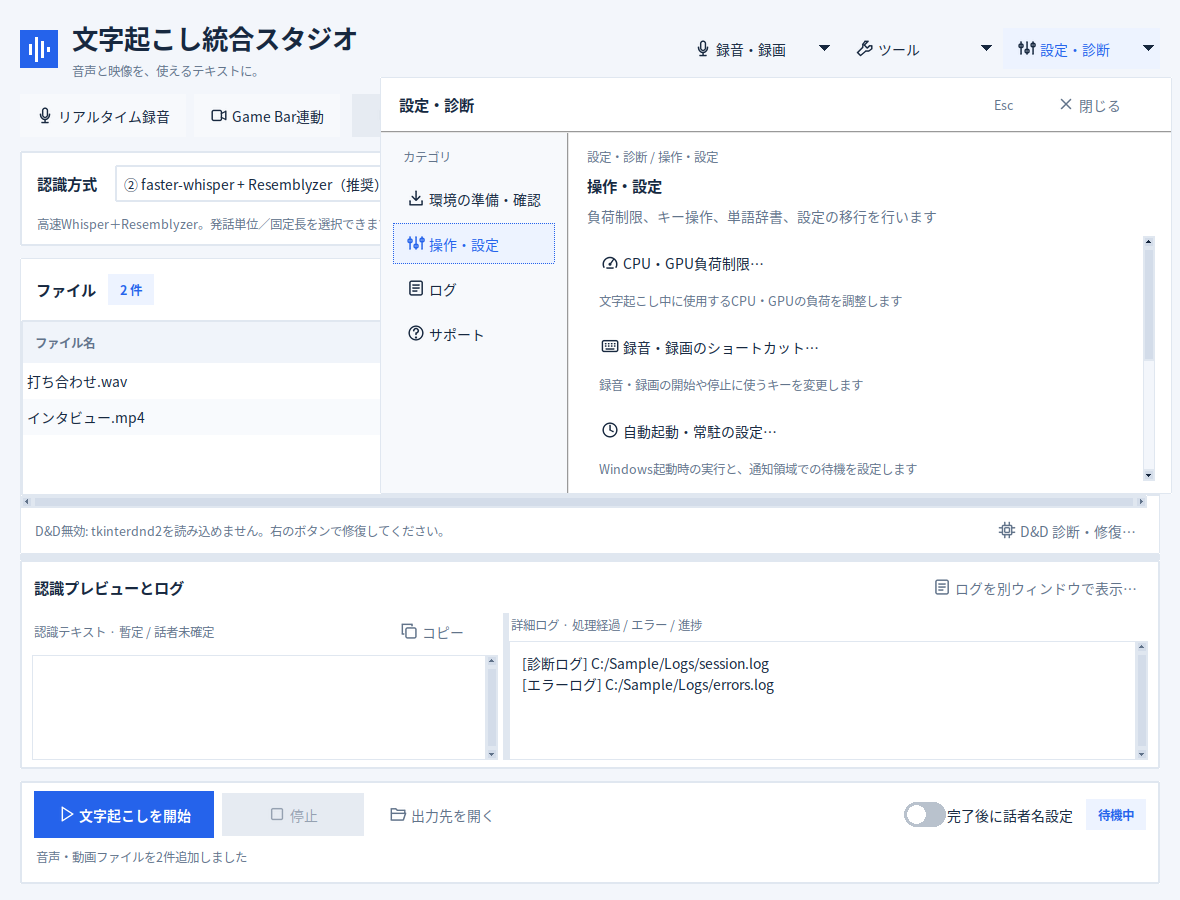
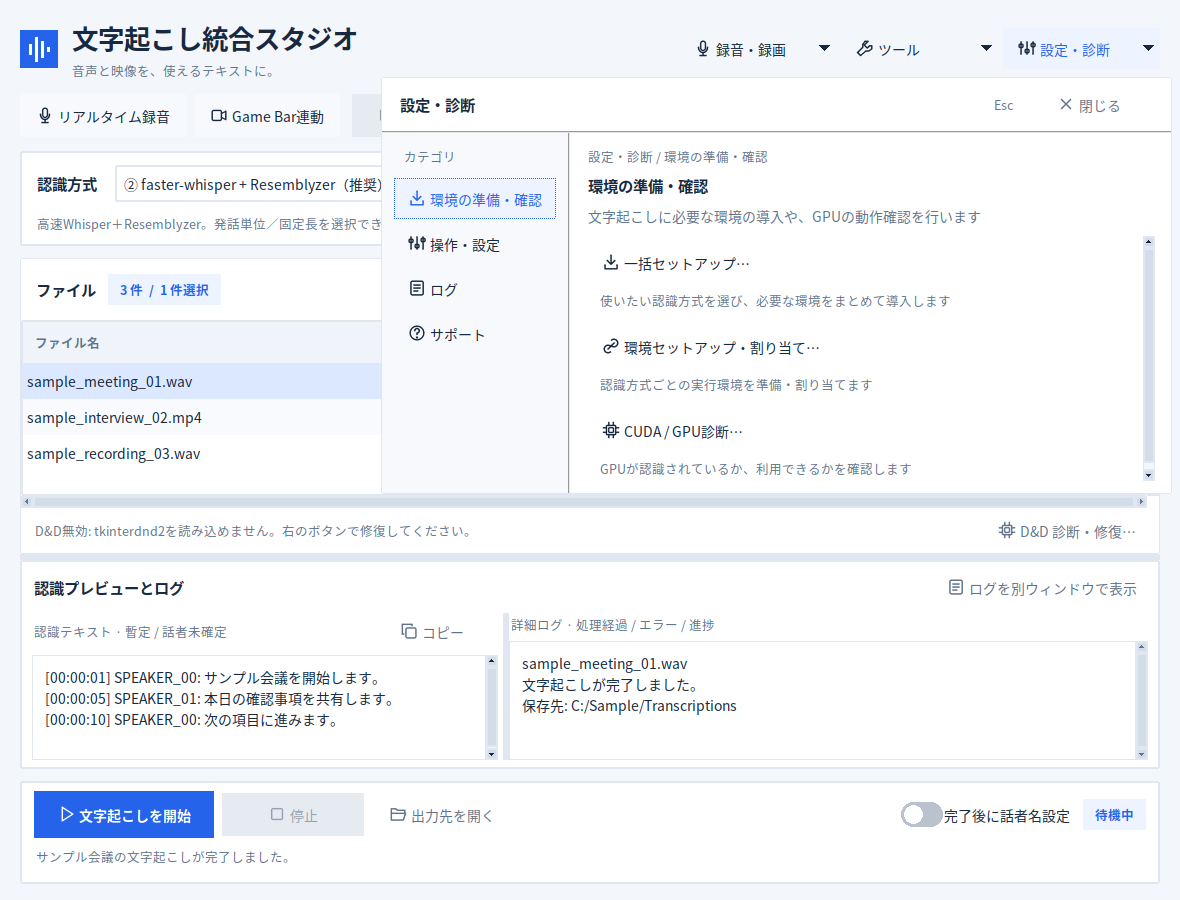
Refresh v1.0.3 README and current UI screenshots
Re-render real Tk documentation screenshots with synthetic data, update the landing-page gallery, correct speaker output and blank-line examples, and refresh linked guides. No application binaries changed.

diff --git a/_internal/docs/GUIDE.html b/_internal/docs/GUIDE.html
@@ -61,7 +61,7 @@ figure{margin:24px 0 30px}.shot{position:relative;border:1px solid var(--line);b
 
   <section class="section" id="main">
     <div class="section-title"><span class="step-no">02</span><h2>メイン画面の見方</h2></div>
-    <p>上から「準備する」「ファイルを選ぶ」「結果を見る」「開始する」の順に並んでいます。アプリ TOP の「画面付き操作ガイド」から、このガイドを直接開けます（下の画面例は追加前のものです）。画像上の番号を押すと、対応する説明へ移動できます。</p>
+    <p>上から「準備する」「ファイルを選ぶ」「結果を見る」「開始する」の順に並んでいます。アプリ TOP の「画面付き操作ガイド」から、このガイドを直接開けます（下の画面例はv1.0.3の実画面を使い、架空のデータで再撮影しました）。画像上の番号を押すと、対応する説明へ移動できます。</p>
     <figure><div class="shot"><img src="images/main-light.png" width="1180" height="900" alt="メイン画面。上部に録音と設定、中央にファイル一覧、左下に認識文、右下に詳細ログ、最下部に開始と停止がある。">
       <a class="pin" href="#record" style="left:28%;top:10.5%" aria-label="1 録音とGame Bar">1</a><a class="pin" href="#settings" style="left:95%;top:17%" aria-label="2 認識方式と詳細設定">2</a><a class="pin" href="#files" style="left:83%;top:32%" aria-label="3 ファイル一覧">3</a><a class="pin" href="#preview" style="left:41%;top:68.5%" aria-label="4 認識プレビューとコピー">4</a><a class="pin" href="#help" style="left:92%;top:68.5%" aria-label="5 詳細ログ">5</a><a class="pin" href="#stop" style="left:34%;top:91.5%" aria-label="6 開始と停止">6</a>
     </div><figcaption class="caption">架空のファイル名・本文を使った画面例。<a href="images/main-light.png">画像を大きく開く</a></figcaption></figure>
@@ -121,7 +121,7 @@ figure{margin:24px 0 30px}.shot{position:relative;border:1px solid var(--line);b
   <section class="section" id="settings">
     <div class="section-title"><span class="step-no">08</span><h2>保存先・設定・見た目を変える</h2></div>
     <h3>固有名詞を認識時のヒントにする</h3>
-    <p>メイン画面の「単語辞書…」または「設定・診断 → 操作・設定 → 認識用の単語辞書…」から設定します。写真の画面例にはこのボタンはまだ表示されていません。</p>
+    <p>メイン画面の「単語辞書…」または「設定・診断 → 操作・設定 → 認識用の単語辞書…」から設定します。</p>
     <ol class="steps"><li><strong>「単語辞書を使用する」をオン</strong><p>初期状態ではオフです。</p></li><li><strong>共通・用途別の単語を登録</strong><p>「表記」に例として「青空株式会社」を入力し、「単語を追加」を押します。読み方は辞書管理用で、認識エンジンには送られません。共通グループは常に使用され、用途別グループは使うものを選びます。</p></li><li><strong>「辞書を保存」してから認識を開始</strong><p>通常のファイルとライブ認識でヒントとして使います。結果の文章の自動置換はしません。</p></li></ol>
     <p class="note">ヒントは正しい認識を保証しません。登録上限は1,000語・50グループ、単語・読み方は各120文字です。実際に使うヒントの長さにも上限があるため、一部が省略される場合は辞書画面またはログで確認します。「、」は単語の区切りとして使うため登録できません。辞書はローカルに保存され、辞書画面から単体で読み込み・書き出しでき、設定全体の移行にも含まれます。</p>
     <h3>保存先を選ぶ</h3>
@@ -174,7 +174,7 @@ figure{margin:24px 0 30px}.shot{position:relative;border:1px solid var(--line);b
     <p class="note warning">ログにはファイルパス、デバイス名、認識結果が含まれる場合があります。誰かへ共有する前に内容を確認してください。</p>
     <div class="inline-links"><a href="USAGE.md">テキスト版の操作ガイド</a><a href="PRIVACY.md">設定・データの取り扱い</a><a href="VALIDATION.md">検証範囲</a><a href="PACKAGING.md">配布形式と警告</a><a href="CHANGELOG.md">リリース情報</a><a href="#">先頭へ戻る</a></div>
   </section>
-  <footer class="footer">文字起こし統合スタジオ v1.0.3 · 画面例は開発中の表示を含みます。追加項目は本文を参照してください。実際のアプリに架空のサンプルを表示しています。画面サイズや表示モードにより、配置や見える範囲が変わります。AIによる認識・話者分離は推定のため、必要に応じて原音と照合してください。</footer>
+  <footer class="footer">文字起こし統合スタジオ v1.0.3 · 画面例はv1.0.3の画面を仮想デスクトップで撮影したものです。Windows実機の細部は異なる場合があります。実際のアプリに架空のサンプルを表示しています。画面サイズや表示モードにより、配置や見える範囲が変わります。AIによる認識・話者分離は推定のため、必要に応じて原音と照合してください。</footer>
 </main>
 </div>
 </body>

diff --git a/_internal/tools/create_guide_screens.py b/_internal/tools/create_guide_screens.py
@@ -54,6 +54,21 @@ def main():
                 xdisplay=os.environ.get('DISPLAY')).save(images / name)
             print(name)
 
+        def capture_menu(name, label):
+            """Take a desktop capture of the real anchored overlay over the root."""
+            button = next(item for item in app.ui.drawer_buttons if item.cget('text') == label)
+            button.toggle()
+            root.update_idletasks()
+            root.update()
+            assert button.opened and button.panel is not None
+            button.panel.lift()
+            root.update_idletasks()
+            x, y = root.winfo_rootx(), root.winfo_rooty()
+            ImageGrab.grab(bbox=(x, y, x+root.winfo_width(), y+root.winfo_height()),
+                xdisplay=os.environ.get('DISPLAY')).save(images / name)
+            print(name)
+            button.close()
+            root.update()
         def finish(win):
             for job in root.tk.call('after', 'info'):
                 try:
@@ -76,8 +91,8 @@ def main():
             app.tree.set(key, 'destination', 'C:/Sample/Transcriptions')
         app.status.set('サンプル会議の文字起こしが完了しました。')
         for widget, value in ((app.recognized_box,
-            '[00:00:01] SPEAKER_00: サンプル会議を開始します。\n\n'
-            '[00:00:05] SPEAKER_01: 本日の確認事項を共有します。\n\n'
+            '[00:00:01] SPEAKER_00: サンプル会議を開始します。\n'
+            '[00:00:05] SPEAKER_01: 本日の確認事項を共有します。\n'
             '[00:00:10] SPEAKER_00: 次の項目に進みます。\n'),
             (app.logbox, 'sample_meeting_01.wav\n文字起こしが完了しました。\n'
              '保存先: C:/Sample/Transcriptions\n')):
@@ -86,13 +101,17 @@ def main():
             widget.insert('end', value)
             widget.configure(state='disabled')
         capture('main-light.png', root)
+        capture_menu('menu-light.png', '設定・診断')
+        capture_menu('menu-tools.png', 'ツール')
         app.ui.theme_var.set('dark')
         app.ui._apply_appearance(True)
         capture('main-dark.png', root)
+        capture_menu('menu-dark.png', '設定・診断')
         app.ui.theme_var.set('light')
         app.ui._apply_appearance(False)
         root.geometry('900x640+20+20')
         capture('main-compact.png', root)
+        capture_menu('menu-compact.png', '設定・診断')
         root.geometry('1180x900+20+20')
         root.update()
         dialog = gui.SettingsDialog(app)
@@ -126,7 +145,7 @@ def main():
             '[00:00:10] SPEAKER_00: 次の項目に進みます。\n', encoding='utf-8')
         dialog = gui.SpeakerEditDialog(app, sample)
         dialog.input.set('C:/Sample/Transcriptions/sample_meeting.txt')
-        dialog.output.set('C:/Sample/sample_meeting_names.txt')
+        dialog.output.set('C:/Sample/Transcriptions/sample_meeting_names.txt')
         for speaker, variable in dialog.rename_vars.items():
             variable.set('話者A' if speaker == 'SPEAKER_00' else '話者B')
         dialog._expand_all()

diff --git a/_internal/docs/USAGE.md b/_internal/docs/USAGE.md
@@ -4,7 +4,7 @@
 
 [メイン画面](#メイン画面の見方) · [ファイル](#ファイルを文字起こしする) · [録音](#録音ライブ文字起こし) · [Game Bar](#game-barで画面も録る) · [話者名](#話者名を整える) · [更新・削除](#更新修復アンインストール)
 
-アプリ同梱の [図解ガイド（HTML）](GUIDE.html) には、番号付きの画面解説、目的別の手順、困ったときの確認表があります。アプリ TOP の **「画面付き操作ガイド」** ボタンから直接開け、オフラインでも読めます。画面例は一部が開発中の表示で、最新の画面と異なる場合があります。共通保存先・CUDA事前表示・モデル選択は、以下の手順も併せて参照してください。
+アプリ同梱の [図解ガイド（HTML）](GUIDE.html) には、番号付きの画面解説、目的別の手順、困ったときの確認表があります。アプリ TOP の **「画面付き操作ガイド」** ボタンから直接開け、オフラインでも読めます。画面例はv1.0.3のTk画面を架空データで再撮影したものです。Windows実機とはフォント・ウィンドウ枠の細部が異なる場合があります。共通保存先・CUDA事前表示・モデル選択は、以下の手順も併せて参照してください。
 
 ## インストール
 
